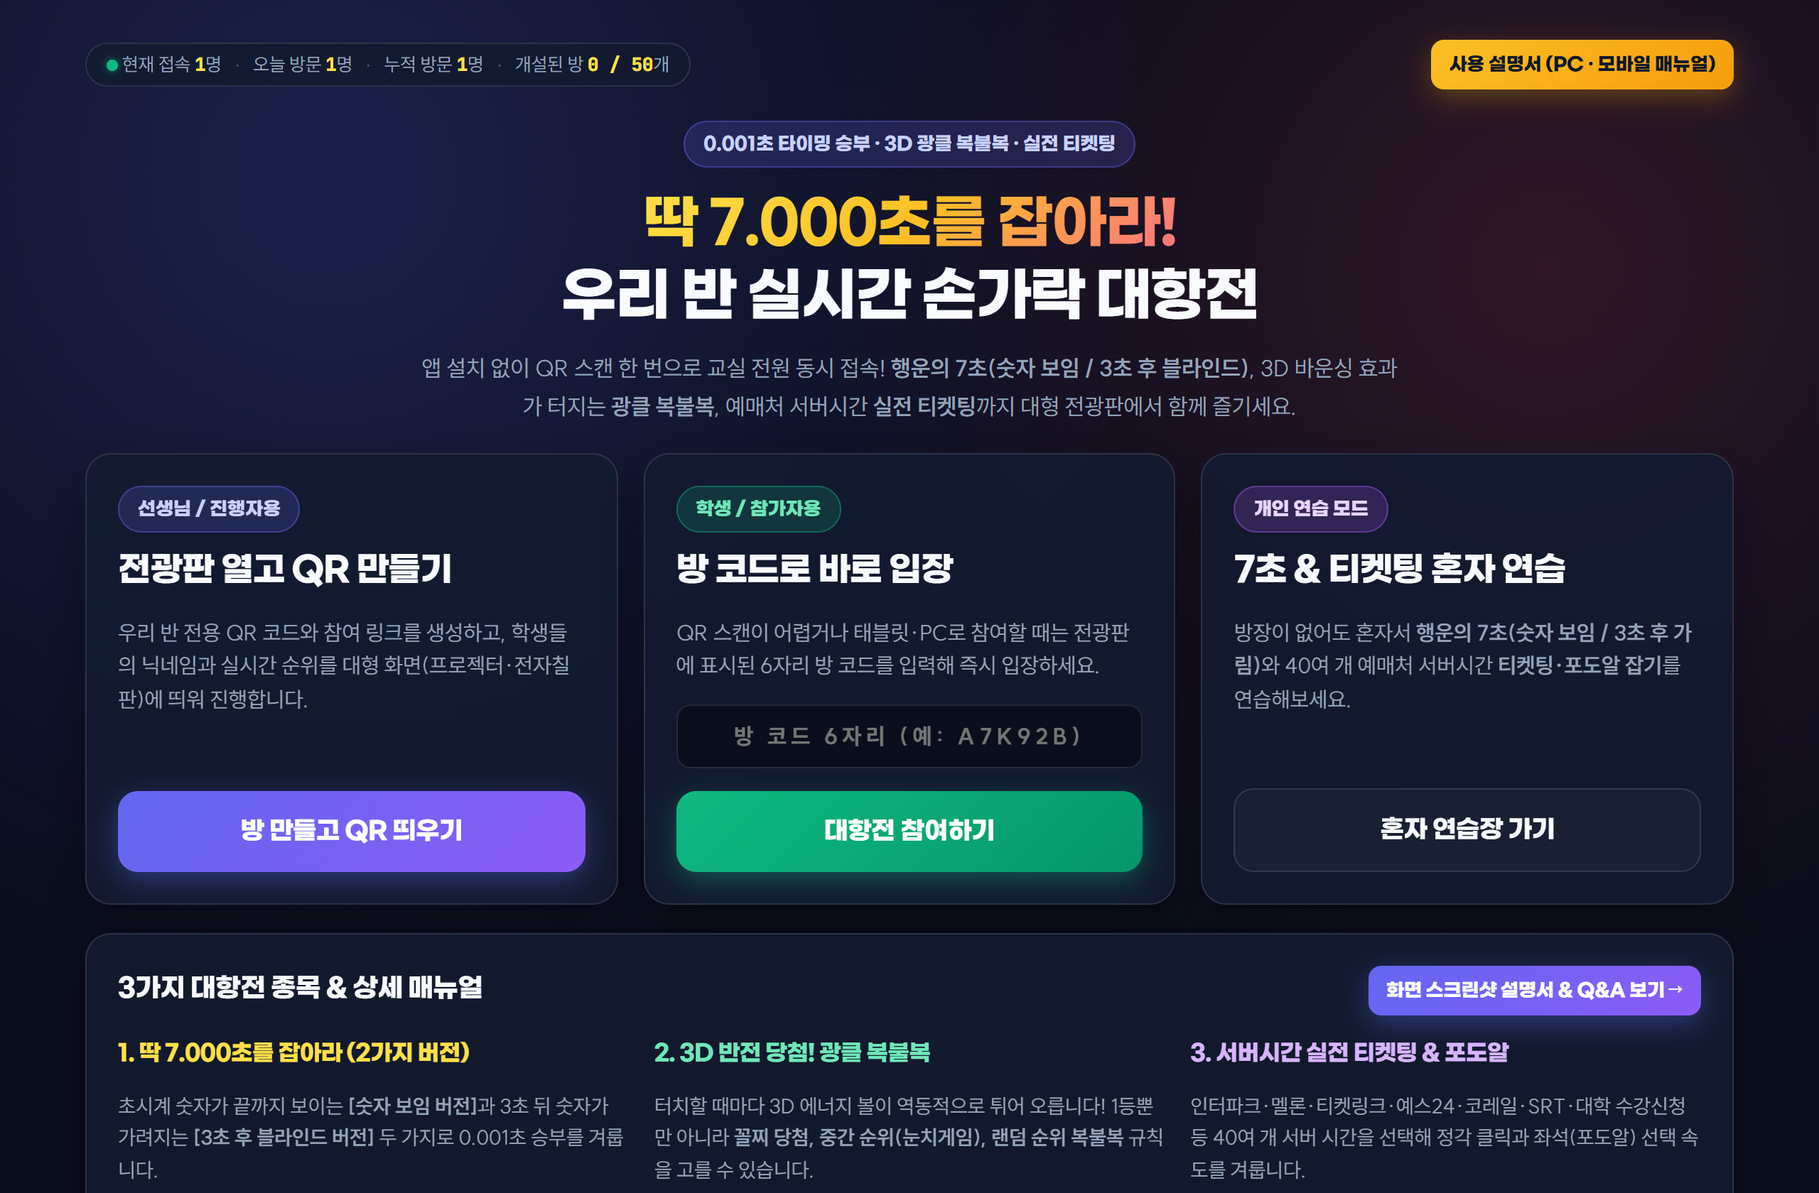
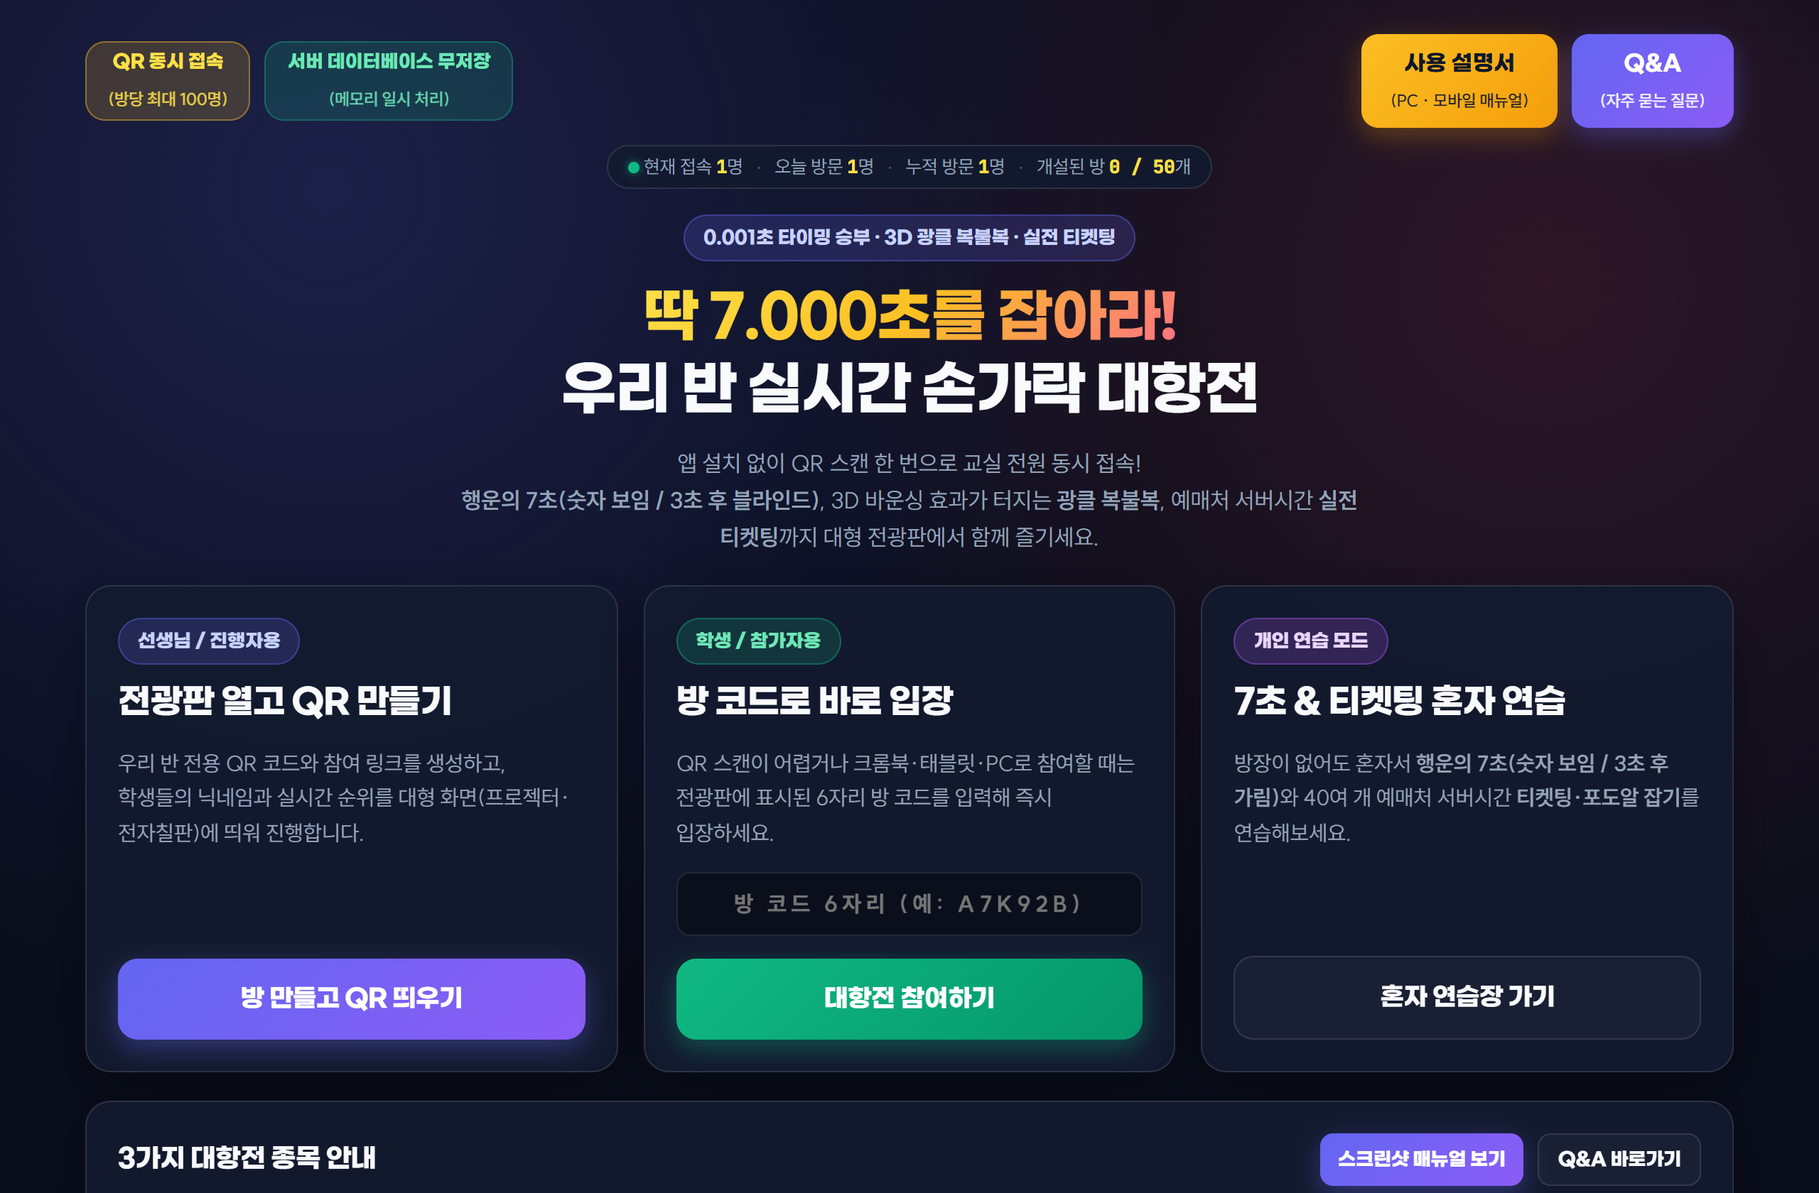
Improve top badge/button line-breaks, add Q&A top shortcut, and simplify footer copyright

diff --git a/public/index.html b/public/index.html
@@ -7,23 +7,46 @@
   <link rel="stylesheet" href="/styles.css" />
 </head>
 <body>
-  <div class="container" style="padding-top: 28px; padding-bottom: 48px;">
-    <!-- Top Navigation Bar -->
+  <div class="container" style="padding-top: 24px; padding-bottom: 48px;">
+    <!-- Top Navigation Bar (Multi-line Badges & Top Manual / Q&A Buttons) -->
     <div class="flex items-center justify-between flex-wrap gap-2 mb-2">
-      <div class="visitor-pill" data-visitor-box>방문자 및 접속 현황 집계 중...</div>
-      <div class="flex items-center gap-2">
-        <a href="/manual" class="btn btn-accent btn-sm">사용 설명서 (PC · 모바일 매뉴얼)</a>
+      <div class="flex items-center gap-2 flex-wrap">
+        <span class="badge badge-accent badge-multiline">
+          <span>QR 동시 접속</span>
+          <small>(방당 최대 100명)</small>
+        </span>
+        <span class="badge badge-success badge-multiline">
+          <span>서버 데이터베이스 무저장</span>
+          <small>(메모리 일시 처리)</small>
+        </span>
+      </div>
+      <div class="flex items-center gap-2 flex-wrap">
+        <a href="/manual" class="btn btn-accent btn-multiline">
+          <span>사용 설명서</span>
+          <small>(PC · 모바일 매뉴얼)</small>
+        </a>
+        <a href="/manual#qna" class="btn btn-primary btn-multiline">
+          <span>Q&amp;A</span>
+          <small>(자주 묻는 질문)</small>
+        </a>
       </div>
     </div>
 
-    <div class="text-center mb-2" style="margin-top: 22px;">
+    <!-- Visitor Counter Pill -->
+    <div class="text-center mt-2">
+      <div class="visitor-pill" data-visitor-box>방문자 및 접속 현황 집계 중...</div>
+    </div>
+
+    <!-- Hero Title -->
+    <div class="text-center mb-2" style="margin-top: 18px;">
       <div class="badge" style="margin-bottom: 4px;">0.001초 타이밍 승부 · 3D 광클 복불복 · 실전 티켓팅</div>
       <h1 class="hero-title">
         <span class="point-gold">딱 7.000초를 잡아라!</span><br />
         우리 반 실시간 손가락 대항전
       </h1>
-      <p class="text-muted" style="max-width: 700px; margin: 0 auto; font-size: 1rem; line-height: 1.65;">
-        앱 설치 없이 QR 스캔 한 번으로 교실 전원 동시 접속! <strong>행운의 7초(숫자 보임 / 3초 후 블라인드)</strong>, 3D 바운싱 효과가 터지는 <strong>광클 복불복</strong>, 예매처 서버시간 <strong>실전 티켓팅</strong>까지 대형 전광판에서 함께 즐기세요.
+      <p class="text-muted" style="max-width: 680px; margin: 0 auto; font-size: 1rem; line-height: 1.65;">
+        앱 설치 없이 QR 스캔 한 번으로 교실 전원 동시 접속!<br />
+        <strong>행운의 7초(숫자 보임 / 3초 후 블라인드)</strong>, 3D 바운싱 효과가 터지는 <strong>광클 복불복</strong>, 예매처 서버시간 <strong>실전 티켓팅</strong>까지 대형 전광판에서 함께 즐기세요.
       </p>
     </div>
 
@@ -33,7 +56,7 @@
         <div>
           <span class="badge">선생님 / 진행자용</span>
           <h2 style="margin: 12px 0 6px;">전광판 열고 QR 만들기</h2>
-          <p class="text-muted" style="font-size: 0.95rem; line-height: 1.55;">
+          <p class="text-muted" style="font-size: 0.95rem; line-height: 1.6;">
             우리 반 전용 QR 코드와 참여 링크를 생성하고, 학생들의 닉네임과 실시간 순위를 대형 화면(프로젝터·전자칠판)에 띄워 진행합니다.
           </p>
         </div>
@@ -45,8 +68,8 @@
         <div>
           <span class="badge badge-success">학생 / 참가자용</span>
           <h2 style="margin: 12px 0 6px;">방 코드로 바로 입장</h2>
-          <p class="text-muted" style="font-size: 0.95rem; line-height: 1.55;">
-            QR 스캔이 어렵거나 태블릿·PC로 참여할 때는 전광판에 표시된 6자리 방 코드를 입력해 즉시 입장하세요.
+          <p class="text-muted" style="font-size: 0.95rem; line-height: 1.6;">
+            QR 스캔이 어렵거나 크롬북·태블릿·PC로 참여할 때는 전광판에 표시된 6자리 방 코드를 입력해 즉시 입장하세요.
           </p>
           <div class="mt-2">
             <input
@@ -66,7 +89,7 @@
         <div>
           <span class="badge" style="background: rgba(168,85,247,0.2); color: #e9d5ff; border-color: rgba(168,85,247,0.4);">개인 연습 모드</span>
           <h2 style="margin: 12px 0 6px;">7초 &amp; 티켓팅 혼자 연습</h2>
-          <p class="text-muted" style="font-size: 0.95rem; line-height: 1.55;">
+          <p class="text-muted" style="font-size: 0.95rem; line-height: 1.6;">
             방장이 없어도 혼자서 <strong>행운의 7초(숫자 보임 / 3초 후 가림)</strong>와 40여 개 예매처 서버시간 <strong>티켓팅·포도알 잡기</strong>를 연습해보세요.
           </p>
         </div>
@@ -77,25 +100,28 @@
     <!-- Quick Guide & Manual CTA -->
     <div class="card mt-3">
       <div class="flex items-center justify-between flex-wrap gap-2 mb-2">
-        <h3 style="margin: 0;">3가지 대항전 종목 &amp; 상세 매뉴얼</h3>
-        <a href="/manual" class="btn btn-primary btn-sm">화면 스크린샷 설명서 &amp; Q&amp;A 보기 →</a>
+        <h3 style="margin: 0;">3가지 대항전 종목 안내</h3>
+        <div class="flex gap-2">
+          <a href="/manual" class="btn btn-primary btn-sm">스크린샷 매뉴얼 보기</a>
+          <a href="/manual#qna" class="btn btn-outline btn-sm">Q&amp;A 바로가기</a>
+        </div>
       </div>
       <div class="grid-3">
         <div>
           <h4 style="margin: 6px 0; color: #fde047;">1. 딱 7.000초를 잡아라 (2가지 버전)</h4>
-          <p class="text-muted" style="font-size: 0.9rem; line-height: 1.55;">
+          <p class="text-muted" style="font-size: 0.9rem; line-height: 1.6;">
             초시계 숫자가 끝까지 보이는 <strong>[숫자 보임 버전]</strong>과 3초 뒤 숫자가 가려지는 <strong>[3초 후 블라인드 버전]</strong> 두 가지로 0.001초 승부를 겨룹니다.
           </p>
         </div>
         <div>
           <h4 style="margin: 6px 0; color: #6ee7b7;">2. 3D 반전 당첨! 광클 복불복</h4>
-          <p class="text-muted" style="font-size: 0.9rem; line-height: 1.55;">
+          <p class="text-muted" style="font-size: 0.9rem; line-height: 1.6;">
             터치할 때마다 3D 에너지 볼이 역동적으로 튀어 오릅니다! 1등뿐만 아니라 <strong>꼴찌 당첨, 중간 순위(눈치게임), 랜덤 순위 복불복</strong> 규칙을 고를 수 있습니다.
           </p>
         </div>
         <div>
           <h4 style="margin: 6px 0; color: #d8b4fe;">3. 서버시간 실전 티켓팅 &amp; 포도알</h4>
-          <p class="text-muted" style="font-size: 0.9rem; line-height: 1.55;">
+          <p class="text-muted" style="font-size: 0.9rem; line-height: 1.6;">
             인터파크·멜론·티켓링크·예스24·코레일·SRT·대학 수강신청 등 40여 개 서버 시간을 선택해 정각 클릭과 좌석(포도알) 선택 속도를 겨룹니다.
           </p>
         </div>
@@ -104,14 +130,8 @@
 
     <!-- Footer -->
     <footer class="text-center mt-3" style="padding: 20px 10px 0; border-top: 1px solid var(--border); font-size: 0.88rem; color: var(--text-muted);">
-      <div class="mb-2">
-        <div class="visitor-pill" data-visitor-box>방문자 집계 불러오는 중...</div>
-      </div>
-      <div style="margin-bottom: 6px;">
-        본 서비스는 별도 데이터베이스(DB)를 사용하지 않으며, 모든 참여 기록은 서버 메모리(RAM)에서만 일시 처리 후 자동 소멸되어 <strong>서버에 어떠한 개인정보도 남지 않습니다.</strong>
-      </div>
-      <div class="mt-1">
-        Copyright © 2026 <a href="https://blog.naver.com/math-tong" target="_blank" rel="noreferrer" style="color: #fde047; font-weight: 800; text-decoration: underline;">math-tong</a>. All rights reserved.
+      <div style="font-weight: 700; color: #e2e8f0;">
+        Copyright © math-tong. All rights reserved.
       </div>
     </footer>
   </div>

diff --git a/public/manual.html b/public/manual.html
@@ -510,26 +510,21 @@
     <!-- ============================================================== -->
     <!-- 3. KAKAOTALK CHAT Q&A ("카카오톡 메시지 통") & SHARE BOX        -->
     <!-- ============================================================== -->
-    <div class="mt-3" style="margin-top: 32px;">
+    <div id="qna" class="mt-3" style="margin-top: 32px; scroll-margin-top: 24px;">
       <div class="flex items-center justify-between flex-wrap gap-2 mb-2">
         <div>
           <span class="badge badge-accent">자주 묻는 질문 &amp; 유의사항 Q&amp;A</span>
           <h2 style="margin: 8px 0 4px;">선생님들이 가장 궁금해하시는 Q&amp;A (톡 안내)</h2>
         </div>
-        <a href="https://blog.naver.com/math-tong" target="_blank" rel="noreferrer" class="btn btn-primary btn-sm">
-          제작자 블로그 (math-tong) 방문하기 ↗
-        </a>
       </div>
 
       <div class="kakao-room">
         <div class="kakao-header">
           <div class="kakao-header-title">
-            <span>행운의 7초 · 교실 복불복 Q&amp;A 안내방</span>
+            <span>딱 7.000초를 잡아라 · 교실 대항전 Q&amp;A 안내방</span>
             <span class="kakao-badge">실시간 가이드</span>
           </div>
-          <a href="https://blog.naver.com/math-tong" target="_blank" rel="noreferrer" style="font-size: 0.82rem; font-weight: 800; color: #1e293b; text-decoration: underline;">
-            blog.naver.com/math-tong ↗
-          </a>
+          <span style="font-size: 0.82rem; font-weight: 800; color: #1e293b;">Q&amp;A 가이드</span>
         </div>
 
         <div class="kakao-body">
@@ -621,18 +616,18 @@
           <div class="kakao-msg-right">
             <span class="kakao-time">오전 10:39</span>
             <div class="kakao-bubble-right">
-              수업 시간에 진행할 때 꼭 알아두어야 할 유의사항이 있을까요?
+              수업 시간에 발표자를 뽑을 때나 1인 1스마트기기(크롬북·태블릿)로 진행할 때 키보드가 망가지진 않을지 걱정되는데 좋은 팁이 있을까요?
             </div>
           </div>
           <div class="kakao-msg-left">
             <div class="kakao-avatar">통</div>
             <div class="kakao-left-content">
-              <div class="kakao-sender-name">매쓰통 (math-tong) 안내봇</div>
+              <div class="kakao-sender-name">Q&amp;A 안내봇</div>
               <div class="kakao-bubble-left">
-                <strong>수업 전 핵심 유의사항 3가지:</strong><br />
-                1) 무료 클라우드(Render) 특성상 15분간 아무도 접속하지 않으면 절전 모드로 들어갑니다. <strong>수업 시작 1분 전에 선생님 PC에서 사이트를 한 번 열어두시면</strong> 서버가 깨어나 학생들이 즉시 입장합니다.<br />
-                2) 교실 공유기(Wi-Fi) 1대에 50~100명이 동시에 몰리면 공유기 자체가 느려질 수 있으니, 온라인 주소로 접속할 때는 학생 <strong>모바일 데이터(LTE/5G)</strong>를 함께 쓰면 더욱 쾌적합니다.<br />
-                3) 더 많은 교실용 웹앱과 수업 자료는 <a href="https://blog.naver.com/math-tong" target="_blank" rel="noreferrer">math-tong 공식 블로그 ↗</a>에서 언제든 확인하실 수 있습니다!
+                <strong>교실 발표자 선정 &amp; 크롬북 보호 꿀팁 3가지!</strong><br />
+                1) <strong>키보드 연타 방지 설계</strong>: 본 앱의 광클 복불복은 키보드(스페이스바·엔터) 연타가 아닌 <strong>화면 터치 또는 마우스 클릭(`pointerdown`)</strong>으로만 작동하도록 설계되어 키보드 파손을 예방합니다.<br />
+                2) <strong>크롬북 보호용 '중간 순위(눈치게임)' &amp; '행운의 7초' 활용</strong>: 무작정 세게 연타하는 대신 광클 복불복의 당첨 기준을 <strong>[중간 순위 당첨(눈치게임)]</strong>이나 <strong>[랜덤 순위 당첨]</strong>으로 바꾸거나, 단 한 번의 클릭으로 승부하는 <strong>[행운의 7초]</strong>로 발표자를 뽑으면 기기에 무리를 주지 않고도 아이들의 참여율을 폭발적으로 높일 수 있습니다.<br />
+                3) <strong>수업 1분 전 워밍업</strong>: 무료 클라우드(Render)는 15분 미접속 시 절전 모드로 들어가므로, 수업 시작 1분 전에 선생님 PC에서 방장 화면을 미리 한 번 열어두시면 학생들이 즉시 쾌적하게 입장합니다.
               </div>
             </div>
             <span class="kakao-time">오전 10:39</span>
@@ -641,12 +636,7 @@
 
         <div class="kakao-footer">
           <div style="font-size: 0.85rem; color: #334155; font-weight: 700;">
-            궁금한 점이나 추가 아이디어는 매쓰통 블로그에 남겨주세요.
-          </div>
-          <div class="flex gap-2">
-            <a href="https://blog.naver.com/math-tong" target="_blank" rel="noreferrer" class="btn btn-sm" style="background: #fee500; color: #191919; font-weight: 800;">
-              math-tong 블로그 바로가기 ↗
-            </a>
+            학급 발표자 선정 · 모둠 대표 뽑기 · 학급 레크리에이션에 자유롭게 활용하세요.
           </div>
         </div>
       </div>
@@ -660,14 +650,13 @@
           </div>
           <button type="button" id="copyKakaoMsgBtn" class="btn btn-accent btn-sm">카톡 안내 문구 복사하기</button>
         </div>
-        <pre id="kakaoShareText" style="margin: 0; padding: 12px; border-radius: 10px; background: rgba(11, 16, 32, 0.85); color: #f8fafc; font-size: 0.86rem; line-height: 1.6; white-space: pre-wrap; font-family: inherit;">[행운의 7초 &amp; 교실 복불복 · 티켓팅 연습 안내]
-• 참여 방법: 화면의 QR 코드 스캔 또는 방 코드 6자리 입력 후 닉네임 입장 (방당 최대 100명)
+        <pre id="kakaoShareText" style="margin: 0; padding: 12px; border-radius: 10px; background: rgba(11, 16, 32, 0.85); color: #f8fafc; font-size: 0.86rem; line-height: 1.6; white-space: pre-wrap; font-family: inherit;">[딱 7.000초를 잡아라! · 우리 반 실시간 손가락 대항전 안내]
+• 참여 방법: 화면의 QR 코드 스캔 또는 방 코드 6자리 입력 후 닉네임 입장 (방당 최대 100명 / 동시 50개 방 개설 가능)
 • 게임 종목:
   1) 행운의 7초 (버전 1: 숫자 보임 / 버전 2: 3초 후 블라인드)
-  2) 광클 복불복 (1등 / 꼴찌 / 중간순위 / 랜덤순위 당첨)
-  3) 실전 티켓팅 &amp; 포도알 연습 (예매처 서버시간 동기화)
-• 개인정보 안내: 서버 DB 무저장 (메모리 일시 처리 후 자동 완전 삭제)
-• 제작 및 안내 블로그: https://blog.naver.com/math-tong</pre>
+  2) 3D 광클 복불복 (1등 / 꼴찌 / 중간순위 눈치게임 / 랜덤순위 당첨)
+  3) 실전 티켓팅 &amp; 포도알 연습 (40여 개 예매처·대학 수강신청 서버시간 동기화)
+• 개인정보 안내: 서버 데이터베이스 무저장 (메모리 일시 처리 후 자동 완전 삭제)</pre>
       </div>
     </div>
 
@@ -675,8 +664,8 @@
       <div class="mb-2">
         <div class="visitor-pill" data-visitor-box>방문자 집계 불러오는 중...</div>
       </div>
-      <div>
-        Copyright © 2026 <a href="https://blog.naver.com/math-tong" target="_blank" rel="noreferrer" style="color: #fde047; font-weight: 800; text-decoration: underline;">math-tong</a>. All rights reserved.
+      <div style="font-weight: 700; color: #e2e8f0;">
+        Copyright © math-tong. All rights reserved.
       </div>
     </footer>
   </div>

diff --git a/public/host.html b/public/host.html
@@ -17,6 +17,7 @@
       </div>
       <div class="flex items-center gap-2 flex-wrap">
         <a href="/manual" class="btn btn-outline btn-sm">사용 설명서</a>
+        <a href="/manual#qna" class="btn btn-outline btn-sm">Q&amp;A</a>
         <a href="/practice" class="btn btn-outline btn-sm">혼자 연습하기</a>
         <button id="openHistoryBtn" class="btn btn-accent btn-sm">전체 누적 기록 (<span id="historyCount">0</span>)</button>
         <button id="newRoomBtn" class="btn btn-outline btn-sm">새 방 만들기</button>
@@ -258,9 +259,8 @@
       <div class="mb-2">
         <div class="visitor-pill" data-visitor-box>방문자 집계 불러오는 중...</div>
       </div>
-      <div>모든 참여자 닉네임과 기록은 데이터베이스에 저장되지 않으며, 서버 메모리(RAM)에서만 일시 동작 후 자동 삭제됩니다.</div>
-      <div class="mt-1">
-        Copyright © 2026 <a href="https://blog.naver.com/math-tong" target="_blank" rel="noreferrer" style="color: #fde047; font-weight: 800; text-decoration: underline;">math-tong</a>. All rights reserved.
+      <div style="font-weight: 700; color: #e2e8f0;">
+        Copyright © math-tong. All rights reserved.
       </div>
     </footer>
   </div>

diff --git a/public/practice.html b/public/practice.html
@@ -13,6 +13,7 @@
       <div class="flex items-center gap-2">
         <a href="/" class="btn btn-outline btn-sm">홈</a>
         <a href="/manual" class="btn btn-outline btn-sm">사용 설명서</a>
+        <a href="/manual#qna" class="btn btn-outline btn-sm">Q&amp;A</a>
       </div>
       <span class="badge" style="background: rgba(168,85,247,0.2); color: #e9d5ff;">개인 연습장</span>
     </div>
@@ -212,9 +213,8 @@
       <div class="mb-2">
         <div class="visitor-pill" data-visitor-box>방문자 집계 불러오는 중...</div>
       </div>
-      <div>개인 연습 기록은 현재 브라우저 화면에서만 표시되며 서버에 저장되지 않습니다.</div>
-      <div class="mt-1">
-        Copyright © 2026 <a href="https://blog.naver.com/math-tong" target="_blank" rel="noreferrer" style="color: #fde047; font-weight: 800; text-decoration: underline;">math-tong</a>. All rights reserved.
+      <div style="font-weight: 700; color: #e2e8f0;">
+        Copyright © math-tong. All rights reserved.
       </div>
     </footer>
   </div>

diff --git a/public/styles.css b/public/styles.css
@@ -62,6 +62,7 @@ html, body {
   min-height: 100vh;
   touch-action: manipulation;
   letter-spacing: -0.01em;
+  word-break: keep-all;
 }
 
 a {
@@ -171,6 +172,44 @@ button, input, select {
   background: rgba(239, 68, 68, 0.18);
   color: #fca5a5;
   border-color: rgba(239, 68, 68, 0.38);
+}
+
+.badge-multiline {
+  display: inline-flex;
+  flex-direction: column;
+  align-items: center;
+  justify-content: center;
+  text-align: center;
+  line-height: 1.28;
+  padding: 7px 15px;
+  border-radius: 14px;
+}
+
+.badge-multiline small {
+  font-family: var(--font-body);
+  font-size: 0.74rem;
+  font-weight: 600;
+  opacity: 0.88;
+  margin-top: 2px;
+}
+
+.btn-multiline {
+  display: inline-flex;
+  flex-direction: column;
+  align-items: center;
+  justify-content: center;
+  text-align: center;
+  line-height: 1.25;
+  padding: 8px 16px;
+  border-radius: 12px;
+  gap: 2px;
+}
+
+.btn-multiline small {
+  font-family: var(--font-body);
+  font-size: 0.73rem;
+  font-weight: 600;
+  opacity: 0.9;
 }
 
 /* Buttons */

diff --git a/public/join.html b/public/join.html
@@ -13,6 +13,7 @@
       <div class="flex items-center gap-2">
         <a href="/" class="btn btn-outline btn-sm">홈</a>
         <a href="/manual" class="btn btn-outline btn-sm">사용 설명서</a>
+        <a href="/manual#qna" class="btn btn-outline btn-sm">Q&amp;A</a>
       </div>
       <span id="headerStatusBadge" class="badge">입장 대기</span>
     </div>
@@ -157,9 +158,8 @@
       <div class="mb-2">
         <div class="visitor-pill" data-visitor-box>방문자 집계 불러오는 중...</div>
       </div>
-      <div>서버 DB 무저장 (RAM 일시 처리)</div>
-      <div class="mt-1">
-        Copyright © 2026 <a href="https://blog.naver.com/math-tong" target="_blank" rel="noreferrer" style="color: #fde047; font-weight: 800; text-decoration: underline;">math-tong</a>. All rights reserved.
+      <div style="font-weight: 700; color: #e2e8f0;">
+        Copyright © math-tong. All rights reserved.
       </div>
     </footer>
   </div>
